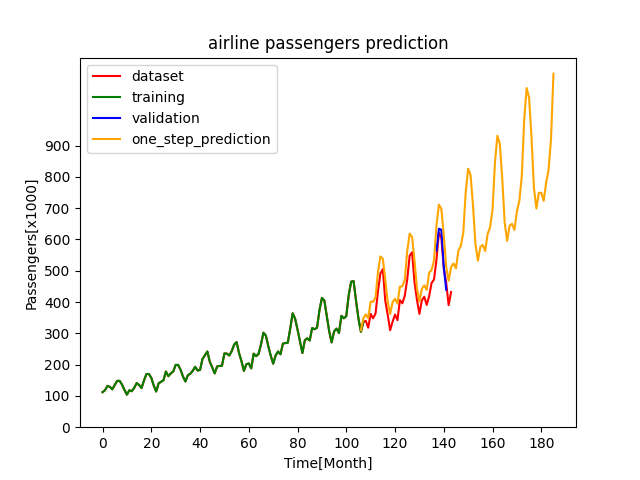
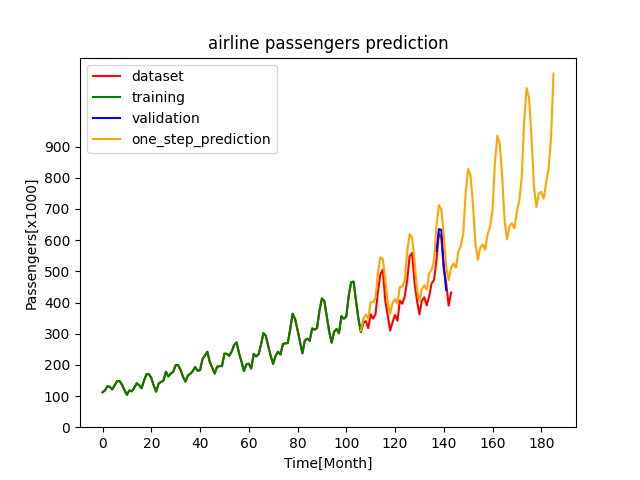
update airline passengers pytorch feedforward

diff --git a/TimeSeriesPrediction/UnivariatTimeSeriesForecast/AirlinePassengers/Pytorch/FF/airline_passengers_pytorch_ff.py b/TimeSeriesPrediction/UnivariatTimeSeriesForecast/AirlinePassengers/Pytorch/FF/airline_passengers_pytorch_ff.py
@@ -19,8 +19,8 @@ def main():
     test_timeseries_tensor = torch.tensor(test_timeseries, dtype=torch.float)
     test_targets_tensor = torch.tensor(test_targets, dtype=torch.float)
 
-    train_loader = DataLoader(dataset=TensorDataset(train_timeseries_tensor, train_targets_tensor), batch_size=1, shuffle=False)
-    test_loader = DataLoader(dataset=TensorDataset(test_timeseries_tensor, test_targets_tensor), batch_size=1, shuffle=False)
+    train_loader = DataLoader(dataset=TensorDataset(train_timeseries_tensor, train_targets_tensor), batch_size=1, shuffle=True)
+    test_loader = DataLoader(dataset=TensorDataset(test_timeseries_tensor, test_targets_tensor), batch_size=1, shuffle=True)
 
     airline_passenger_model = FeedForwardModel()
     num_epochs = 1000
@@ -62,7 +62,7 @@ class FeedForwardModel(nn.Module):
         self.linear1 = nn.Linear(30, 50)
         self.linear2 = nn.Linear(50, 1)
         self.loss_function = nn.MSELoss()
-        self.optimizer_function = torch.optim.Adam(self.parameters(), lr=0.0001)
+        self.optimizer_function = torch.optim.Adam(self.parameters(), lr=0.001)
 
     def forward(self, inputs):
         inputs = self.linear1(inputs)
@@ -99,7 +99,7 @@ class FeedForwardModel(nn.Module):
 def validation_forecast(model, inputs):
     predictions = []
     for element in inputs:
-        prediction = model(torch.Tensor(element))
+        prediction = model(element)
         predictions.append(prediction.item())
     return predictions
 
